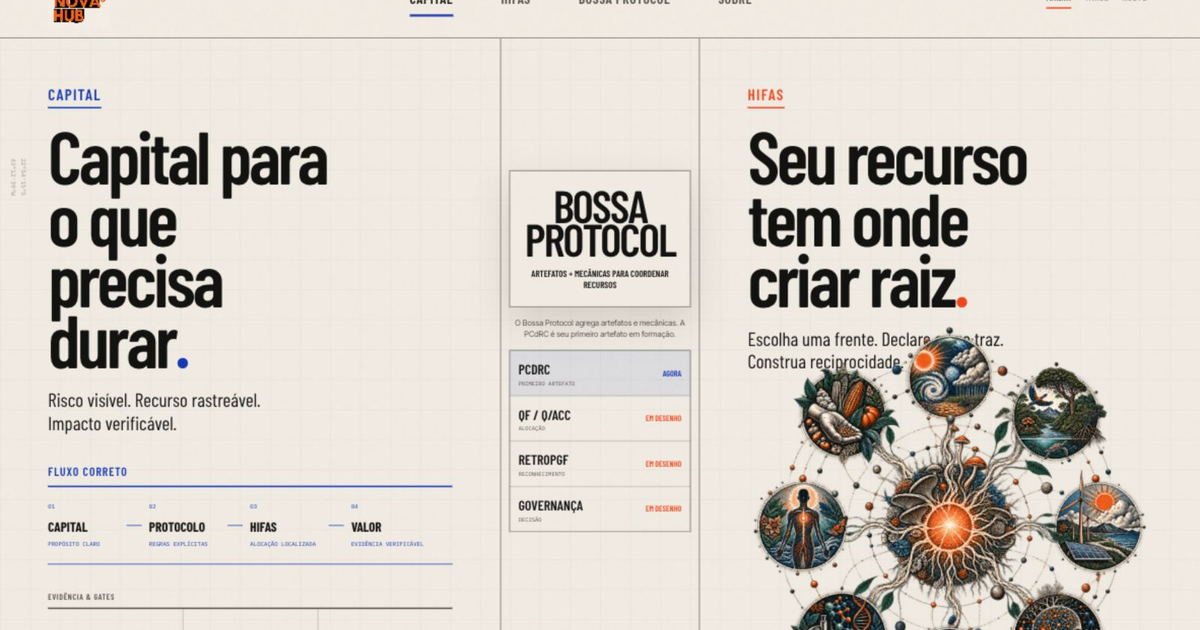
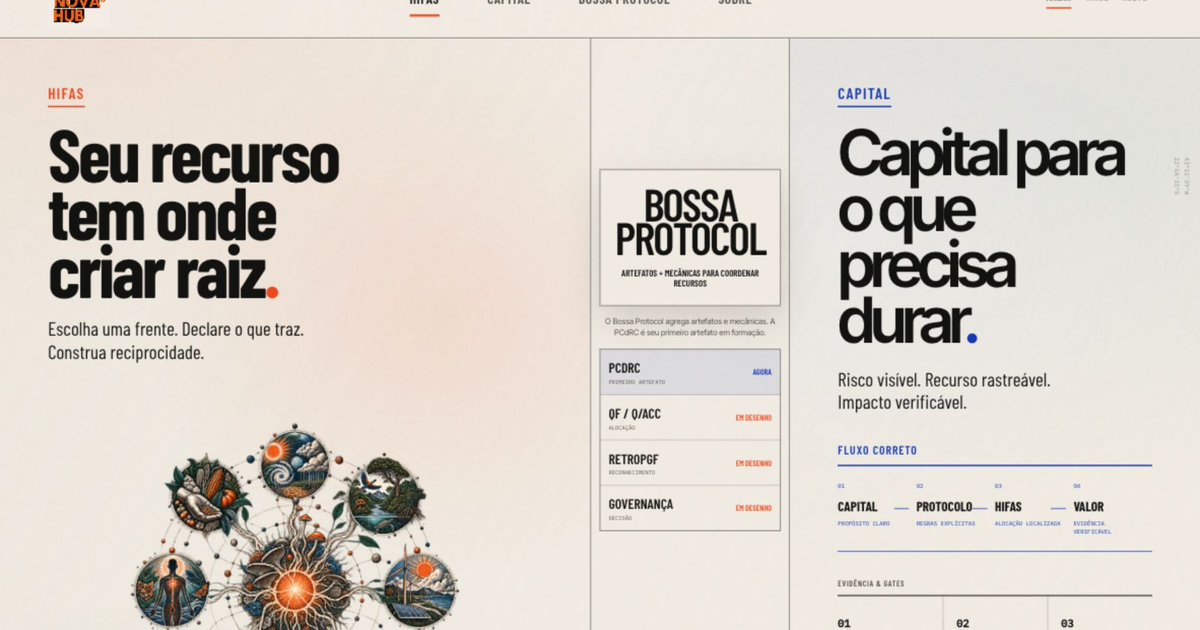
Differentiate Capital and Hifas design directions

diff --git a/src/styles/bossa.css b/src/styles/bossa.css
@@ -1,5 +1,26 @@
-.site-shell { min-height: 100svh; background: var(--paper); color: var(--ink); }
-.site-shell::before { content: ""; position: fixed; inset: 0; pointer-events: none; background-image: linear-gradient(var(--line) 1px, transparent 1px), linear-gradient(90deg, var(--line) 1px, transparent 1px); background-size: 2.5rem 2.5rem; opacity: 0.09; }
+.site-shell {
+  --route-primary: var(--orange);
+  --route-secondary: var(--teal);
+  min-height: 100svh;
+  position: relative;
+  background: var(--paper);
+  color: var(--ink);
+  isolation: isolate;
+}
+.site-shell[data-initial-focus="capital"] { --route-primary: var(--blue); --route-secondary: var(--teal); }
+.site-shell::before {
+  content: "";
+  position: fixed;
+  inset: 0;
+  z-index: -1;
+  pointer-events: none;
+  background:
+    radial-gradient(70rem 42rem at 8% 3%, color-mix(in srgb, var(--route-primary) 7%, transparent), transparent 68%),
+    radial-gradient(62rem 40rem at 94% 26%, color-mix(in srgb, var(--route-secondary) 6%, transparent), transparent 72%),
+    linear-gradient(118deg, color-mix(in srgb, var(--paper-deep) 32%, transparent), transparent 43%, color-mix(in srgb, var(--paper) 92%, transparent));
+  opacity: .82;
+}
+html[data-theme="noite"] .site-shell::before { opacity: .24; mix-blend-mode: screen; }
 .skip { position: fixed; top: .75rem; left: .75rem; z-index: 1000; padding: .75rem 1rem; background: var(--ink); color: var(--paper); transform: translateY(-160%); transition: transform 160ms var(--ease-out); }
 .skip:focus { transform: translateY(0); }
 .topbar { position: sticky; top: 0; z-index: 50; min-height: 6.6rem; padding: 0 4vw; display: grid; grid-template-columns: 6rem 1fr auto; align-items: center; gap: 2rem; border-bottom: 1px solid var(--line-strong); background: color-mix(in srgb, var(--paper) 91%, transparent); backdrop-filter: blur(16px); }
@@ -9,17 +30,31 @@ html[data-theme="noite"] .logo img, html[data-theme="noite"] footer img { mix-bl
 .main-nav { position: relative; justify-self: center; display: flex; align-items: stretch; gap: clamp(1rem, 4vw, 4.5rem); }
 .main-nav a { min-height: 3rem; display: inline-flex; align-items: center; font-family: var(--display); font-size: 1.15rem; font-weight: 600; letter-spacing: .04em; text-decoration: none; text-transform: uppercase; opacity: .74; transition: opacity 140ms ease; }
 .main-nav a.is-active { opacity: 1; }
-.nav-indicator { position: absolute; left: 0; bottom: 0; width: 1px; height: 3px; background: var(--blue); transform-origin: left center; transition: transform 220ms var(--ease-out); }
+.nav-indicator { position: absolute; left: 0; bottom: 0; width: 1px; height: 3px; background: var(--route-primary); transform-origin: left center; transition: transform 220ms var(--ease-out), background-color 180ms ease; }
 .theme-switcher { display: flex; align-items: center; gap: .35rem; }
 .theme-switcher button, .menu-toggle { min-height: 2.75rem; border: 0; background: transparent; color: var(--ink); font-family: var(--mono); font-size: .62rem; letter-spacing: .07em; text-transform: uppercase; cursor: pointer; opacity: .54; transition: opacity 140ms ease, transform 120ms var(--ease-out); }
 .theme-switcher button[aria-pressed="true"] { opacity: 1; text-decoration: underline; text-decoration-color: var(--orange); text-decoration-thickness: 2px; text-underline-offset: .5rem; }
 .theme-switcher button:active, .menu-toggle:active, .artifact:active, .hifa-tabs button:active, .participate-actions button:active { transform: scale(.97); }
 .menu-toggle { display: none; }
 
-.gateway { position: relative; min-height: calc(100svh - 6.6rem); display: grid; grid-template-columns: minmax(0, 1fr) minmax(16.5rem, .34fr) minmax(0, 1fr); border-bottom: 1px solid var(--line-strong); }
-.gateway-field { min-width: 0; padding: clamp(2.5rem, 4vw, 5rem); display: flex; flex-direction: column; }
-.capital-field { position: relative; border-right: 1px solid var(--line-strong); }
-.hifas-field { overflow: clip; border-left: 1px solid var(--line-strong); }
+.gateway { position: relative; min-height: calc(100svh - 6.6rem); display: grid; grid-template-columns: minmax(0, 1.18fr) minmax(16.5rem, .34fr) minmax(0, .82fr); border-bottom: 1px solid var(--line-strong); }
+.gateway-field { min-width: 0; position: relative; padding: clamp(3rem, 4vw, 5rem); display: flex; flex-direction: column; isolation: isolate; }
+.gateway-field:first-child { border-right: 1px solid var(--line-strong); }
+.gateway-field:last-child { border-left: 1px solid var(--line-strong); }
+.gateway-field::before { content: ""; position: absolute; inset: 0; z-index: -1; pointer-events: none; }
+.capital-field::before {
+  background:
+    linear-gradient(155deg, color-mix(in srgb, var(--blue) 8%, transparent), transparent 42%),
+    radial-gradient(42rem 26rem at 18% 18%, color-mix(in srgb, var(--surface) 74%, transparent), transparent 72%);
+}
+.hifas-field { overflow: clip; }
+.hifas-field::before {
+  background:
+    radial-gradient(34rem 30rem at 74% 24%, color-mix(in srgb, var(--orange) 10%, transparent), transparent 72%),
+    radial-gradient(42rem 30rem at 16% 72%, color-mix(in srgb, var(--teal) 8%, transparent), transparent 75%);
+}
+.gateway-field[data-primary="false"]::before { opacity: .52; }
+.gateway-field[data-primary="true"]::before { opacity: 1; }
 .field-copy { min-height: 20rem; }
 .eyebrow { width: max-content; margin-bottom: 1.4rem; padding-bottom: .4rem; border-bottom: 2px solid currentColor; font-family: var(--display); font-size: 1.3rem; font-weight: 600; letter-spacing: .08em; line-height: 1; text-transform: uppercase; }
 .blue { color: var(--blue); }
@@ -27,8 +62,12 @@ html[data-theme="noite"] .logo img, html[data-theme="noite"] footer img { mix-bl
 .teal { color: var(--teal); }
 h1, h2 { font-family: var(--display); font-weight: 600; letter-spacing: -.045em; line-height: .82; text-wrap: balance; }
 h1, .field-copy h2 { max-width: 9ch; font-size: clamp(4.8rem, 6.2vw, 7.5rem); }
+.capital-field h1, .capital-field .field-copy h2 { max-width: 10ch; font-family: var(--body); font-weight: 600; letter-spacing: -.075em; line-height: .88; }
+.hifas-field h1, .hifas-field .field-copy h2 { font-family: var(--display); font-weight: 700; letter-spacing: -.04em; line-height: .78; }
+.gateway-field:last-child .field-copy h2 { font-size: clamp(4.2rem, 5.3vw, 6.4rem); }
 .lead { margin-top: 1.6rem; font-family: var(--display); font-size: clamp(1.2rem, 1.6vw, 1.6rem); line-height: 1.18; }
 .coordinate { position: absolute; left: .7rem; top: 10rem; font-family: var(--mono); font-size: .52rem; line-height: 1.6; opacity: .38; writing-mode: vertical-rl; }
+.gateway-field:last-child .coordinate { right: .7rem; left: auto; writing-mode: vertical-lr; }
 .micro-title { padding-bottom: .45rem; border-bottom: 2px solid currentColor; font-family: var(--display); font-size: 1rem; font-weight: 600; letter-spacing: .08em; text-transform: uppercase; }
 .capital-flow { margin-top: 2.4rem; }
 .capital-flow ol { padding: 1.25rem 0; display: grid; grid-template-columns: repeat(4, 1fr); list-style: none; border-bottom: 1px solid var(--blue); }
@@ -58,13 +97,14 @@ h1, .field-copy h2 { max-width: 9ch; font-size: clamp(4.8rem, 6.2vw, 7.5rem); }
 .artifact.is-current { background: color-mix(in srgb, var(--blue) 9%, transparent); }
 .artifact.is-current b { color: var(--blue); }
 
-.constellation { width: min(calc(100% - 1rem), 32rem); margin: .75rem auto 0; padding: clamp(.25rem, .75vw, .75rem); overflow: clip; aspect-ratio: 1; display: grid; place-items: center; }
+.constellation { width: min(88%, 31rem); margin: clamp(2rem, 4vw, 3.5rem) auto 0; padding: clamp(.75rem, 1.4vw, 1.5rem); overflow: clip; aspect-ratio: 1; display: grid; place-items: center; }
 .constellation img { width: 100%; height: 100%; object-fit: contain; filter: saturate(.86) contrast(1.04); }
 html[data-theme="noite"] .constellation img { filter: saturate(.75) contrast(1.08) brightness(1.12); }
-.hifa-selector { margin-top: -1rem; }
-.hifa-tabs { display: flex; flex-wrap: wrap; gap: .4rem; }
-.hifa-tabs button { min-height: 2.6rem; padding: .55rem .72rem; border: 1px solid var(--line); background: transparent; color: var(--ink); font-family: var(--display); font-size: .8rem; font-weight: 600; text-transform: uppercase; cursor: pointer; transition: transform 120ms var(--ease-out), opacity 140ms ease; }
-.hifa-tabs button[aria-selected="true"] { border-color: var(--orange); background: var(--orange); color: #fff; }
+.hifa-selector { margin-top: clamp(2.5rem, 4vw, 4rem); padding-top: clamp(1.25rem, 2vw, 2rem); border-top: 1px solid color-mix(in srgb, var(--orange) 62%, var(--line)); }
+.hifa-selector-label { margin-bottom: 1rem; color: var(--orange); font-family: var(--mono); font-size: .58rem; letter-spacing: .08em; text-transform: uppercase; }
+.hifa-tabs { display: grid; grid-template-columns: repeat(4, minmax(0, 1fr)); gap: clamp(.55rem, .8vw, .75rem); }
+.hifa-tabs button { min-height: 3rem; padding: .7rem .8rem; border: 1px solid var(--line); background: color-mix(in srgb, var(--paper) 68%, transparent); color: var(--ink); font-family: var(--display); font-size: .8rem; font-weight: 600; line-height: 1; text-transform: uppercase; cursor: pointer; transition: transform 120ms var(--ease-out), opacity 140ms ease, background-color 160ms ease, color 160ms ease; }
+.hifa-tabs button[aria-selected="true"] { border-color: var(--orange); background: var(--orange); color: #17110d; }
 .hifa-panels { min-height: 7rem; margin-top: 1rem; padding: 1rem 0; border-top: 1px dotted var(--line-strong); border-bottom: 1px dotted var(--line-strong); }
 .hifa-panels div:not([hidden]) { display: grid; grid-template-columns: 5rem 1fr; gap: .2rem 1rem; }
 .hifa-panels span { grid-row: 1 / 3; color: var(--teal); font-family: var(--mono); font-size: .5rem; text-transform: uppercase; }
@@ -74,6 +114,8 @@ html[data-theme="noite"] .constellation img { filter: saturate(.75) contrast(1.0
 .cta { min-height: 4.6rem; margin-top: 1.2rem; padding: .8rem 1.3rem; display: flex; align-items: center; justify-content: space-between; color: white; text-decoration: none; transition: transform 150ms var(--ease-out), opacity 150ms ease; }
 .cta-blue { background: var(--blue); }
 .cta-orange { background: var(--orange); }
+.site-shell[data-initial-focus="hifas"] .capital-field .cta { border: 1px solid var(--blue); background: transparent; color: var(--ink); }
+.site-shell[data-initial-focus="capital"] .hifas-field .cta { border: 1px solid var(--orange); background: transparent; color: var(--ink); }
 .cta span { font-family: var(--display); font-size: 1.35rem; text-transform: uppercase; }
 .cta i { font-family: var(--mono); font-size: .54rem; font-style: normal; text-transform: uppercase; }
 .cta:active { transform: scale(.985); }
@@ -129,7 +171,7 @@ html[data-theme="noite"] .constellation img { filter: saturate(.75) contrast(1.0
 
 .participate { padding: clamp(7rem, 13vw, 13rem) 1rem; background: var(--orange); color: #fff; text-align: center; }
 .participate > div { width: min(100%, 72rem); margin-inline: auto; }
-.participate .eyebrow { margin-inline: auto; color: white; }
+.participate .eyebrow { width: fit-content; max-width: 100%; margin-inline: auto; color: white; text-align: center; }
 .participate h2 { font-size: clamp(4.5rem, 10vw, 10rem); line-height: .82; }
 .participate > div > p:not(.eyebrow) { max-width: 43rem; margin: 2rem auto 0; font-size: 1rem; }
 .participate-actions { margin-top: 2rem; display: flex; justify-content: center; flex-wrap: wrap; gap: .7rem; }
@@ -158,6 +200,7 @@ footer strong { color: var(--orange); }
   .gateway { grid-template-columns: 1fr 15rem 1fr; }
   .gateway-field { padding: 2.5rem; }
   h1, .field-copy h2 { font-size: clamp(4rem, 6vw, 5.8rem); }
+  .capital-field h1, .capital-field .field-copy h2 { font-size: clamp(3.8rem, 5.4vw, 5.35rem); }
   .protocol-spine { margin-top: 8rem; }
 }
 
@@ -187,11 +230,14 @@ footer strong { color: var(--orange); }
   .capital-field, .hifas-field { border: 0; border-bottom: 1px solid var(--line-strong); }
   .field-copy { min-height: auto; }
   h1, .field-copy h2 { font-size: clamp(4.3rem, 20vw, 7rem); }
+  .capital-field h1, .capital-field .field-copy h2 { font-size: clamp(3.8rem, 16.5vw, 6rem); }
   .capital-flow ol { grid-template-columns: repeat(2, 1fr); gap: 1.4rem 0; }
   .capital-flow li:nth-child(2)::after { display: none; }
   .protocol-spine { width: 100%; padding: 3rem max(5vw, 1.25rem); display: block; border-bottom: 1px solid var(--line-strong); }
   .protocol-note { margin: 1rem 0; }
-  .constellation { width: min(calc(100% - .5rem), 31rem); margin: 1rem auto 0; padding: .25rem; }
+  .constellation { width: min(86vw, 28rem); margin: 1.75rem auto 0; padding: .5rem; }
+  .hifa-selector { margin-top: 2rem; padding-top: 1.5rem; }
+  .hifa-tabs { grid-template-columns: repeat(2, minmax(0, 1fr)); gap: .65rem; }
   .section-frame { padding: 5rem max(5vw, 1.25rem); grid-template-columns: 1fr; gap: 2rem; }
   .section-index p { max-width: none; }
   .section-copy h2 { font-size: clamp(3.9rem, 15vw, 7rem); }

diff --git a/src/styles/global.css b/src/styles/global.css
@@ -50,16 +50,16 @@ html[data-theme="tarde"] {
 }
 
 html[data-theme="noite"] {
-  --paper: #0f1725;
-  --paper-deep: #151f31;
-  --ink: #f3eee5;
-  --ink-muted: #aab1bb;
+  --paper: #101217;
+  --paper-deep: #191b21;
+  --ink: #f3eadf;
+  --ink-muted: #b1aaa1;
   --line: rgba(232, 237, 245, 0.2);
   --line-strong: rgba(232, 237, 245, 0.62);
   --orange: #ff7130;
   --orange-soft: #ff8a52;
-  --blue: #7792ff;
-  --teal: #58b7bc;
+  --blue: #879cff;
+  --teal: #65bbb6;
   --surface: rgba(255, 255, 255, 0.045);
   --shadow: rgba(0, 0, 0, 0.34);
   color-scheme: dark;
@@ -95,7 +95,7 @@ body::before {
   mix-blend-mode: multiply;
 }
 
-html[data-theme="noite"] body::before { opacity: 0.12; mix-blend-mode: screen; }
+html[data-theme="noite"] body::before { opacity: 0.09; mix-blend-mode: screen; }
 img, picture, video { display: block; max-width: 100%; }
 button, input, textarea, select { color: inherit; font: inherit; }
 button, a { -webkit-tap-highlight-color: transparent; }

diff --git a/design/qa/make_comparison.py b/design/qa/make_comparison.py
@@ -3,7 +3,7 @@ from PIL import Image, ImageOps
 
 root = Path(__file__).resolve().parents[2]
 reference = Image.open(root / "design/concepts/06-bossa-protocol-central-brand-palette.png").convert("RGB")
-implementation = Image.open(root / "design/qa/desktop-morning-1600x1000.png").convert("RGB")
+implementation = Image.open(root / "design/qa/14-desktop-hifas-gateway-after-redesign-1600x1000.png").convert("RGB")
 
 size = (1600, 1000)
 reference = ImageOps.fit(reference, size, method=Image.Resampling.LANCZOS)
@@ -12,7 +12,7 @@ implementation = ImageOps.fit(implementation, size, method=Image.Resampling.LANC
 comparison = Image.new("RGB", (3220, 1000), "#171717")
 comparison.paste(reference, (0, 0))
 comparison.paste(implementation, (1620, 0))
-comparison.save(root / "design/qa/reference-vs-implementation.png", quality=94)
+comparison.save(root / "design/qa/reference-vs-redesign.png", quality=94)
 
 social = ImageOps.fit(implementation, (1200, 630), method=Image.Resampling.LANCZOS, centering=(0.5, 0.34))
 social.save(root / "public/og.png", quality=94)

diff --git a/design-qa.md b/design-qa.md
@@ -5,6 +5,7 @@
 - Visual target: `design/concepts/06-bossa-protocol-central-brand-palette.png`
 - Desktop implementation: `design/qa/desktop-morning-1600x1000.png`
 - Combined comparison: `design/qa/reference-vs-implementation.png`
+- Redesign comparison: `design/qa/reference-vs-redesign.png`
 - Mobile states: `design/qa/mobile-morning-390x844.png`, `design/qa/mobile-hifas-390x844.png`, `design/qa/mobile-facilitator-390x844.png`
 - Theme states: `design/qa/desktop-morning-1600x1000.png`, `design/qa/desktop-tarde-1600x1000.png`, `design/qa/desktop-noite-1600x1000.png`
 
@@ -17,6 +18,9 @@
 - Morning, afternoon and night tokens retain the orange brand dialogue while keeping capital blue and hifas orange/teal distinct.
 - Mobile width 390px has zero horizontal overflow. Header, theme control, CTAs and hifa tabs maintain practical touch sizes.
 - The hifa constellation now stays fully inside its frame at 1600px and 390px, with a positive gap from the supporting copy and zero page overflow.
+- The global grid wallpaper was removed. Paper grain and non-repeating tonal washes now carry the poster materiality without repeating the Kalma/[Re]3 visual shortcut.
+- `/` is semantically and visually Hifas-first; `/capital` is Capital-first. DOM order, heading order, navigation order and final CTA order all follow the selected persona.
+- Capital uses Inter Tight as a diligence-led voice; Hifas keeps Barlow Condensed as the public call. Both retain IBM Plex Mono for status and traceability.
 - Mobile menu opens, closes on selection and closes with Escape.
 - Hifa tabs work with pointer and Left/Right arrow keys; keyboard selection is instantaneous.
 - Artifact rows expose one active state at a time.
@@ -41,6 +45,16 @@
 - Keyboard-operable tabs with managed `tabindex` and `aria-selected`.
 - Theme selection uses `aria-pressed`; artifact selection uses `aria-expanded`.
 - Reduced-motion behavior is present.
+
+## Redesign responsive pass
+
+- Tested both `/` and `/capital` at 1600×1000, 1024×768, 799×844, 390×844 and 320×568.
+- `scrollWidth === innerWidth` for both routes at every tested width.
+- First semantic field and sole `<h1>` follow the route: Hifas on `/`, Capital on `/capital`.
+- Artwork-to-selector protection measures 104px at 1600px, 73px at 1024px and 58px from 799px down to 320px.
+- Hifa controls remain at least 48px high and retain pointer plus Left/Right keyboard operation.
+- Morning, afternoon and night states were visually inspected after the grid removal.
+- Latest evidence: `14-desktop-hifas-gateway-after-redesign-1600x1000.png`, `15-desktop-hifas-controls-after-redesign-1600x1000.png`, `17-mobile-hifas-night-after-redesign-390x844.png`, `18-desktop-capital-night-after-redesign-1600x1000.png`, `19-desktop-hifas-tarde-after-redesign-1600x1000.png`.
 
 ## Final result
 

diff --git a/design/BNW3H-design-study.md b/design/BNW3H-design-study.md
@@ -167,3 +167,15 @@ O roadmap não deve usar datas inventadas. Até haver cronograma aprovado, ele f
 - Verificação de contraste, foco, leitura mobile e preferência por movimento reduzido.
 - Definição do canal público de contato antes de publicação.
 
+## 7. Direção consolidada após QA visual
+
+Conceito: **Dossiê vivo / Cartaz do comum**.
+
+- Capital funciona como um caderno de diligência: preciso, silencioso, rastreável e orientado a decisão.
+- Hifas funciona como um cartaz de convocação: cultural, tátil, territorial e orientado a agência.
+- Bossa Protocol é a lombada comum entre os dois impressos, não uma terceira marca concorrente.
+- O grid decorativo foi removido. A materialidade vem do papel, do grão sutil e de manchas cromáticas não repetitivas.
+- Inter Tight passa a conduzir Capital; Barlow Condensed conduz Hifas e Bossa Protocol; IBM Plex Mono permanece nos registros e estados.
+- A rota `/` começa semanticamente e visualmente por Hifas. A rota `/capital` começa por Capital. O campo secundário é uma porta real, mas não disputa a mesma hierarquia.
+- A constelação preserva uma zona livre antes dos controles: pelo menos 40 px em desktop e 24 px em mobile.
+- O laranja é assinatura e ação. Azul e teal diferenciam função e horizonte sem competir com a marca.
